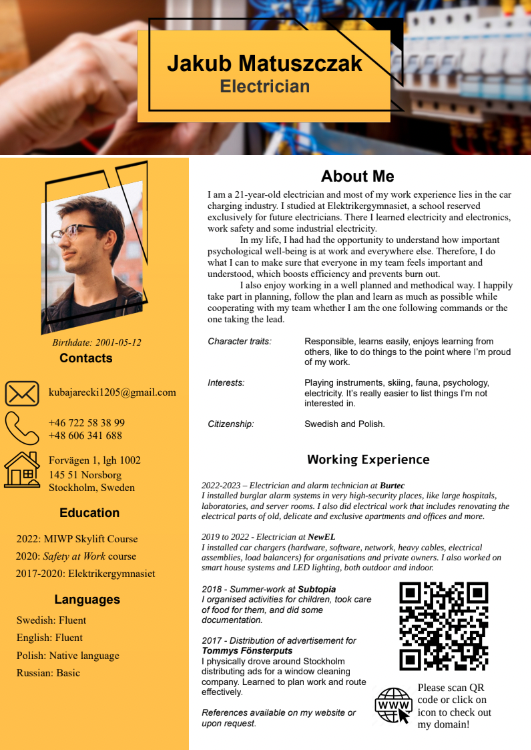
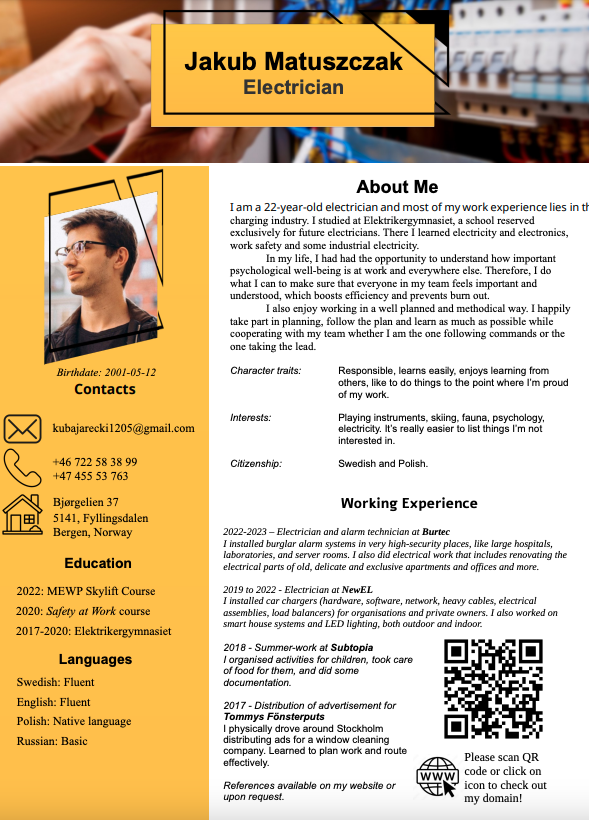
change cv and and phone number

diff --git a/portfolio-jakub/src/components/Footer.vue b/portfolio-jakub/src/components/Footer.vue
@@ -11,12 +11,15 @@
             </div>
             <div class="box">
                 <img src="../assets/icons/telephone.png" alt="phone">
-                <a href="tel:+46 722 58 38 99">+46 722 58 38 99 </a>
-                <a href="tel:+48 606 341 688"> +48 606 341 688</a>
+                <div class="box-phone">
+                    <a href="tel:+46 722 58 38 99">+46 722 58 38 99 </a>
+                    <a href="tel:+48 606 341 688"> +48 606 341 688</a>
+                    <a href="tel:+47 45 553 763"> +47 45 553 763</a>
+                </div>
             </div>
             <div class="box">
                 <img src="../assets/icons/home.png" alt="home">
-                Forvägen 1, lgh 1002 145 51 <br> Norsborg Stockholm, Sweden
+                Bjørgelien 37, 5141 <br> Bergen, Norway
             </div>
         </div>
     </div>
@@ -74,6 +77,11 @@ export default {
             font-size: 35px;
             font-weight: 200;
             margin: 25px;
+
+            .box-phone {
+                display: flex;
+                flex-wrap: wrap;
+            } 
 
             img { 
                 width: 70px;
